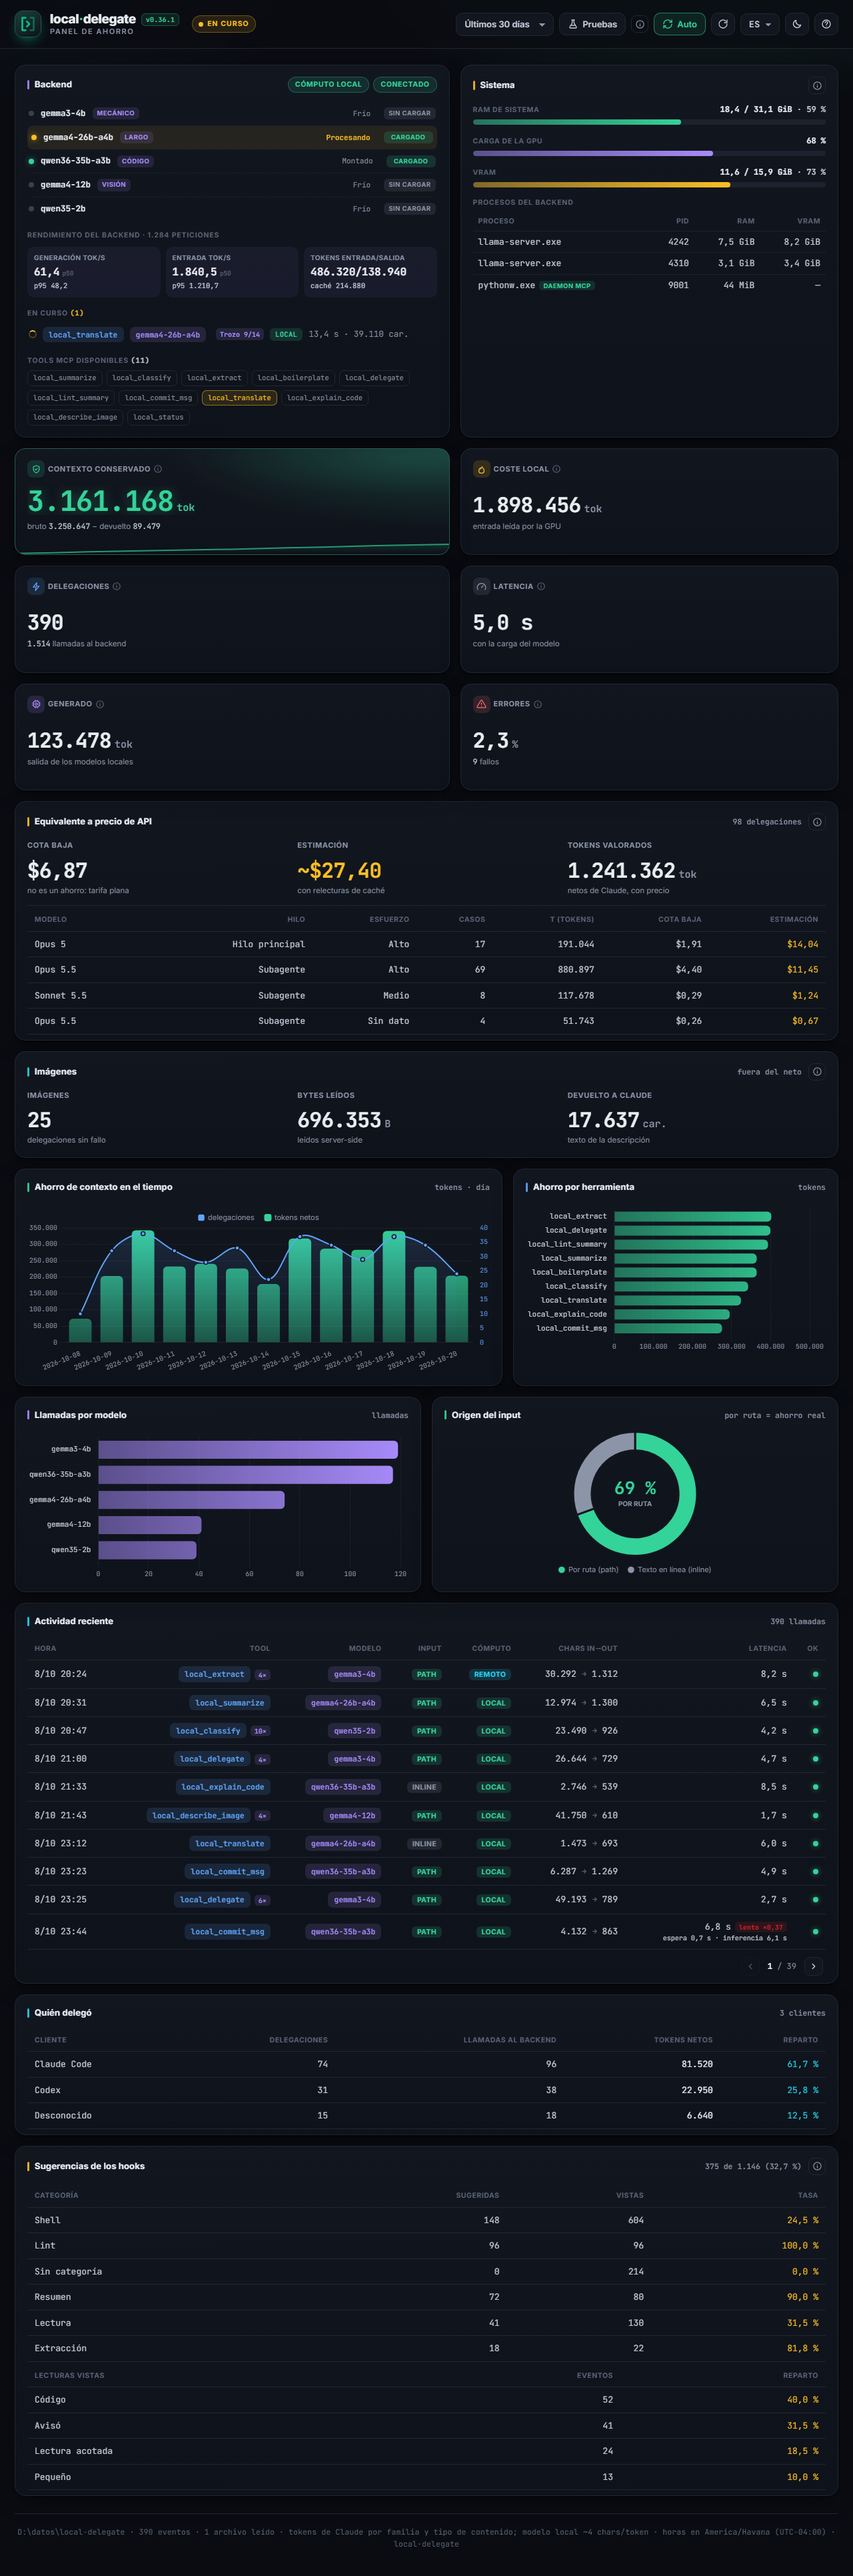
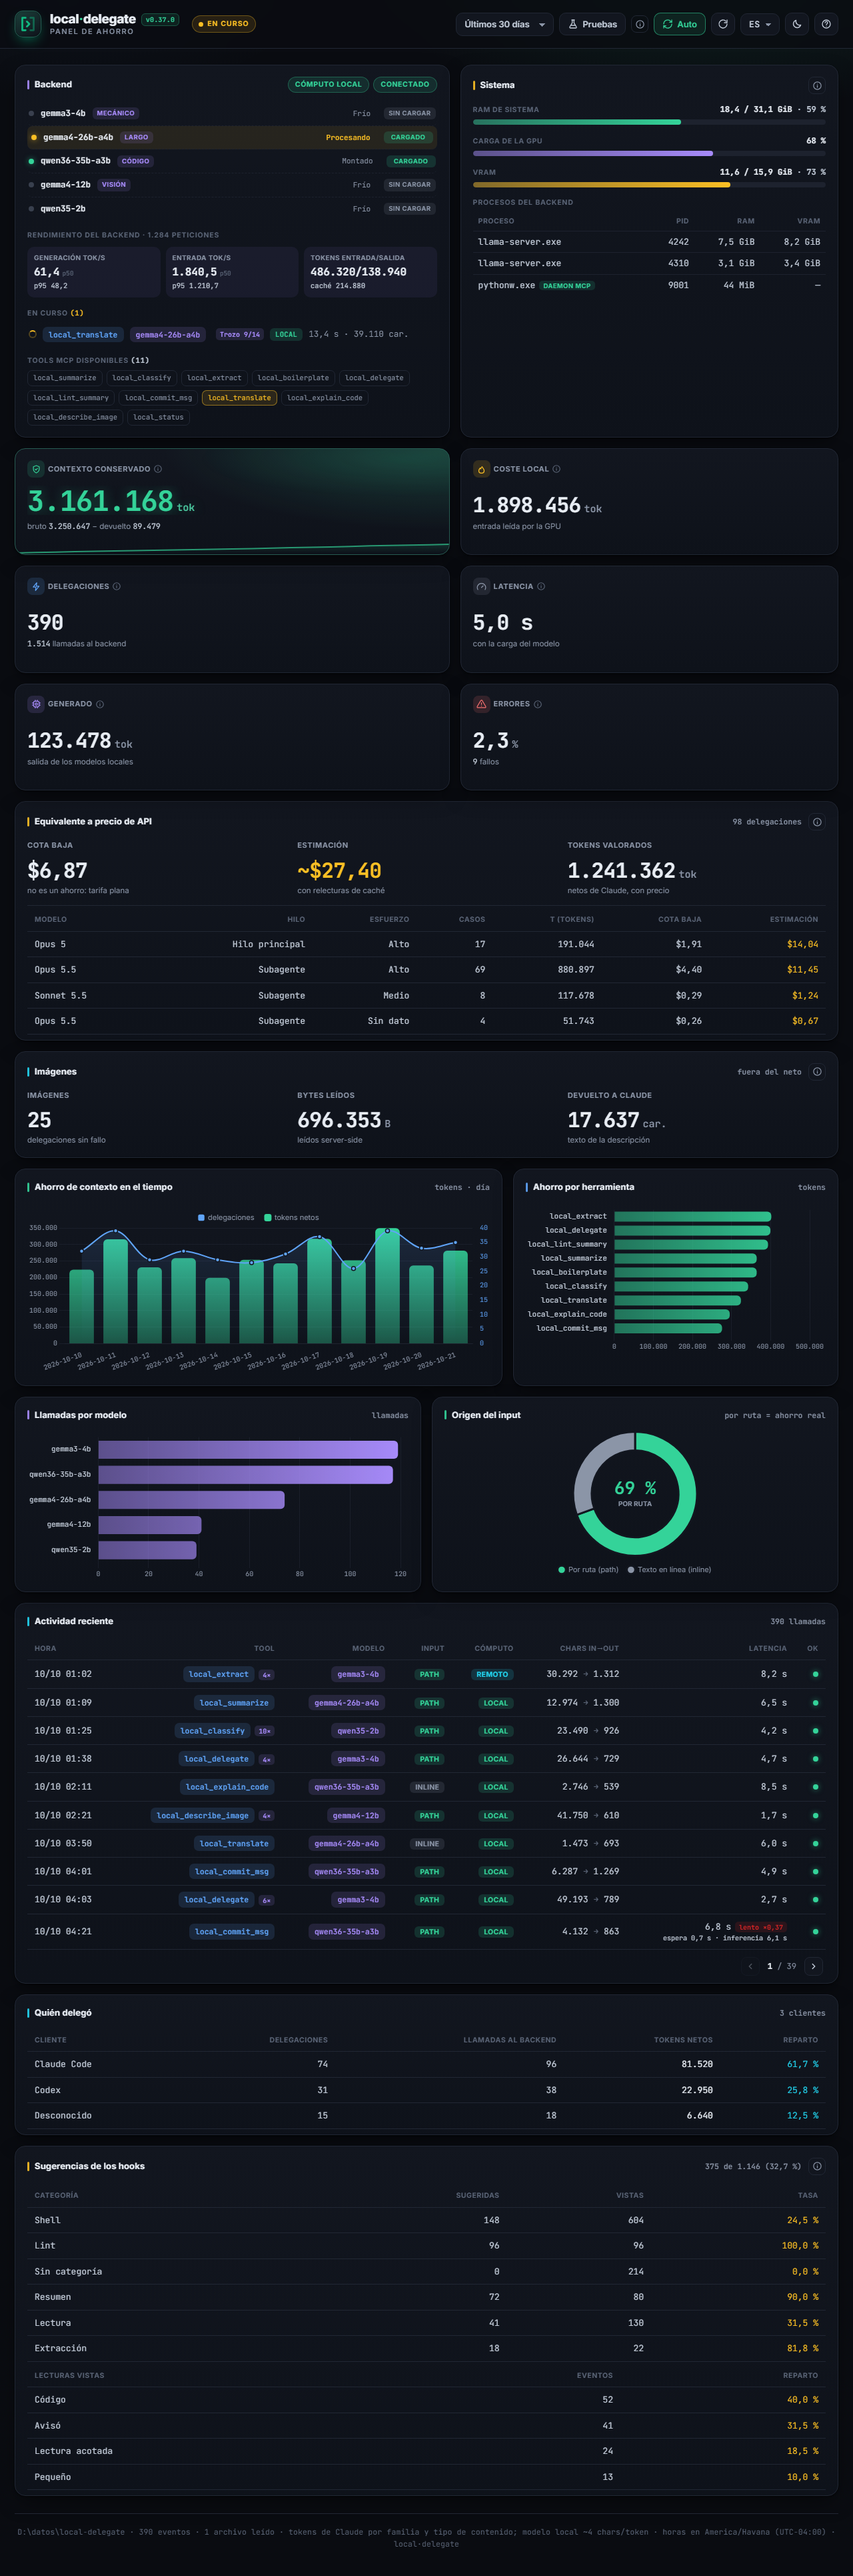
chore: release v0.37.0 (#358)
- Versión 0.37.0 con bump_version.py --boundaries (--check OK; huellas de hooks sin cambios).
- CHANGELOG [0.37.0] - 2026-10-20: parámetros por rol al backend y arreglo del razonamiento
  del benchmark (SDD backend-extra-params, #345-#357), con sección Interno y enlaces de comparación.
- README: captura del panel regenerada contra la app de métricas (badge 0.37.0, datos de ejemplo).

diff --git a/CHANGELOG.md b/CHANGELOG.md
@@ -6,6 +6,13 @@ y el proyecto usa [Versionado Semántico](https://semver.org/lang/es/).
 
 ## [Unreleased]
 
+## [0.37.0] - 2026-10-20
+
+Parámetros de muestreo y de razonamiento por rol en las peticiones al backend (SDD
+`backend-extra-params`), configurables desde un fichero, una variable de entorno y un subcomando
+nuevo, y un arreglo del razonamiento en el benchmark. Aditivo: las tools MCP no cambian de
+contrato. Nada rompe.
+
 ### Añade
 
 - **Parámetros por rol en las peticiones al backend** (SDD `backend-extra-params`). Cada rol
@@ -18,19 +25,20 @@ y el proyecto usa [Versionado Semántico](https://semver.org/lang/es/).
   `LOCAL_DELEGATE_BACKEND_PARAMS` (`rol.clave=valor;…`) los pisa clave a clave. Una clave no
   permitida, reservada o fuera de rango se quita sola, con un aviso que nunca repite el valor. El
   fichero se relee en cada operación (sin reiniciar el daemon); la variable exige reiniciarlo.
-  Las tools MCP no ganan argumentos: el modelo que delega no puede fijar nada.
+  Las tools MCP no ganan argumentos: el modelo que delega no puede fijar nada (#347, #348, #350,
+  #351).
 - **Razonamiento con presupuesto obligatorio.** Se enciende con `enable_thinking` **y**
   `reasoning_budget_tokens` (1–8192), que se suma al `max_tokens` de cada llamada;
   `reasoning_effort` solo no lo enciende. Una llamada cuyo razonamiento no cabe en el contexto del
   modelo (leído de `--ctx-size` en la config de llama-swap, o un estimado de 8192) va sin
   razonamiento. Si el backend rechaza los parámetros con un 400, la operación se reintenta una vez
-  sin ellos.
+  sin ellos (#350, #353).
 - `doctor` y `local_status` muestran los parámetros de cada rol y sus avisos, y el
   panel marca las delegaciones que razonaron o llevaron parámetros, con el detalle en un diálogo.
   Campos nuevos del log de uso, que se omiten si no aplican: `backend_params`, `reasoning_chars`,
   `backend_params_rejected` y `reasoning_skipped`. Detalle en la wiki
   ([Configuration](docs/wiki/Configuration.md#parámetros-del-backend-por-rol) y
-  [Savings & metrics](docs/wiki/Savings-and-metrics.md)).
+  [Savings & metrics](docs/wiki/Savings-and-metrics.md)) (#346, #351, #354, #355).
 
 ### Corrige
 
@@ -39,7 +47,17 @@ y el proyecto usa [Versionado Semántico](https://semver.org/lang/es/).
   `reasoning_effort` en la raíz y el presupuesto de `--reasoning-budget N` (1–8192, obligatorio;
   sin él la corrida sale con error antes de llamar al backend) sumado al `max_tokens` del caso, con
   la misma regla que producción. Los metadatos de la corrida apuntan el presupuesto y qué claves de
-  rol había activas; el benchmark no las aplica.
+  rol había activas; el benchmark no las aplica (#352).
+
+### Interno
+
+- **Red de compatibilidad de las tools:** tests que fijan los cuerpos de las peticiones y los
+  argumentos de cada tool MCP, para que un cambio de firma o de cuerpo no pase sin que falle
+  ninguno (#345).
+- **Corpus de pruebas:** los hashes de la línea `index` de los diffs del corpus ya no dependen del
+  repo local, y `test_corpus` pasa igual en local que en el CI (#349).
+- **Prueba en vivo, benchmark y capturas** del cambio contra el backend real, y cierre del SDD
+  `backend-extra-params` (gates `quality`, `conformance` y `memory`) (#356, #357).
 
 ## [0.36.1] - 2026-10-19
 
@@ -3064,7 +3082,8 @@ los ficheros de datos. Lo que lee el usuario sigue en español.
 - Empaquetado para PyPI (`local-delegate-mcp`) ejecutable con `uvx`; `server.json` para el
   registro oficial de MCP.
 
-[Unreleased]: https://github.com/ZahiriNatZuke/local-delegate/compare/v0.36.1...HEAD
+[Unreleased]: https://github.com/ZahiriNatZuke/local-delegate/compare/v0.37.0...HEAD
+[0.37.0]: https://github.com/ZahiriNatZuke/local-delegate/compare/v0.36.1...v0.37.0
 [0.36.1]: https://github.com/ZahiriNatZuke/local-delegate/compare/v0.36.0...v0.36.1
 [0.36.0]: https://github.com/ZahiriNatZuke/local-delegate/compare/v0.35.0...v0.36.0
 [0.35.0]: https://github.com/ZahiriNatZuke/local-delegate/compare/v0.34.0...v0.35.0
